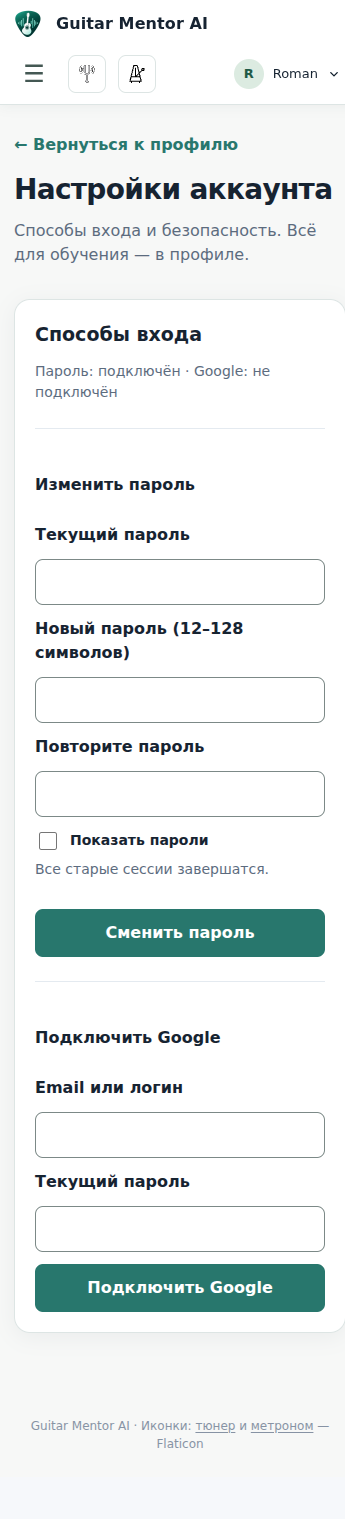
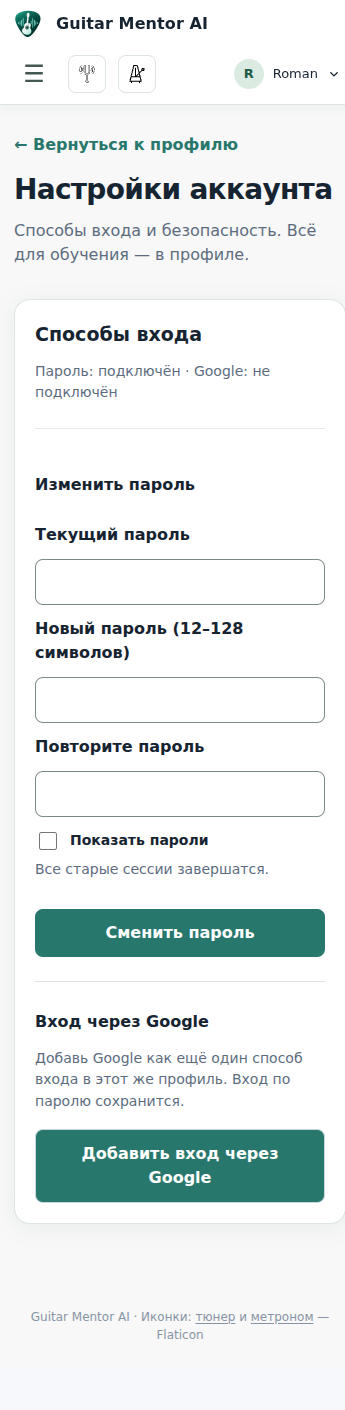
fix(ux): group profile data and clarify Google account linking (#229)

diff --git a/frontend/src/core/auth/PasswordSettings.vue b/frontend/src/core/auth/PasswordSettings.vue
@@ -1,5 +1,5 @@
 <script setup lang="ts">
-import { onBeforeUnmount, onMounted, ref } from 'vue';
+import { nextTick, onBeforeUnmount, onMounted, ref } from 'vue';
 import { useI18n } from 'vue-i18n';
 import { takeAccountLinkToken } from './account-link';
 import { auth, refreshActor } from './auth';
@@ -11,11 +11,15 @@ let active = true;
 let generation = 0;
 const accountId = auth.actor?.accountId;
 const isCurrent = () => active && auth.actor?.accountId === accountId;
-onBeforeUnmount(() => { active = false; ++generation; currentPassword.value = ''; newPassword.value = ''; confirm.value = ''; token.value = ''; });
+onBeforeUnmount(() => { active = false; ++generation; currentPassword.value = ''; newPassword.value = ''; confirm.value = ''; googlePassword.value = ''; identifier.value = ''; token.value = ''; });
 const passwordEnabled = ref(false);
 const googleEnabled = ref(false);
 const googleAvailable = ref(false);
 const identifier = ref('');
+const googlePassword = ref('');
+const googleLinkOpen = ref(false);
+const googleIdentifierInput = ref<HTMLInputElement | null>(null);
+const googleLinkButton = ref<HTMLButtonElement | null>(null);
 const email = ref('');
 const login = ref('');
 const currentPassword = ref('');
@@ -99,9 +103,18 @@ async function verifyLink(): Promise<void> {
     token.value = ''; notice.value = label('Пароль добавлен.', 'Password sign-in enabled.');
   }
 }
+function openGoogleLink(): void {
+  identifier.value = ''; googlePassword.value = ''; error.value = ''; notice.value = ''; googleLinkOpen.value = true;
+  void nextTick(() => googleIdentifierInput.value?.focus?.());
+}
+function cancelGoogleLink(): void {
+  identifier.value = ''; googlePassword.value = ''; googleLinkOpen.value = false;
+  void nextTick(() => googleLinkButton.value?.focus?.());
+}
 async function linkGoogle(): Promise<void> {
-  if (await submit('link/google/start',{identifier:identifier.value,password:currentPassword.value})) {
-    currentPassword.value = '';
+  if (!googleLinkOpen.value || !identifier.value.trim() || !googlePassword.value) return;
+  if (await submit('link/google/start',{identifier:identifier.value,password:googlePassword.value})) {
+    googlePassword.value = '';
     window.location.assign('/oauth2/authorization/guitar-mentor');
   }
 }
@@ -117,11 +130,11 @@ async function linkGoogle(): Promise<void> {
     <form v-if="methodsKnown && passwordEnabled" class="auth-form" @submit.prevent="change">
       <h3>{{ label('Изменить пароль', 'Change password') }}</h3>
       <label for="current-password">{{ label('Текущий пароль', 'Current password') }}</label>
-      <input id="current-password" v-model="currentPassword" :type="show ? 'text' : 'password'" autocomplete="current-password" required />
+      <input id="current-password" name="password-change-current" v-model="currentPassword" :type="show ? 'text' : 'password'" autocomplete="section-password-change current-password" required />
       <label for="new-account-password">{{ label('Новый пароль (12–128 символов)', 'New password (12–128 characters)') }}</label>
-      <input id="new-account-password" v-model="newPassword" :type="show ? 'text' : 'password'" autocomplete="new-password" minlength="12" maxlength="128" required />
+      <input id="new-account-password" v-model="newPassword" :type="show ? 'text' : 'password'" autocomplete="section-password-change new-password" minlength="12" maxlength="128" required />
       <label for="confirm-account-password">{{ label('Повторите пароль', 'Confirm password') }}</label>
-      <input id="confirm-account-password" v-model="confirm" :type="show ? 'text' : 'password'" autocomplete="new-password" required />
+      <input id="confirm-account-password" v-model="confirm" :type="show ? 'text' : 'password'" autocomplete="section-password-change new-password" required />
       <label class="auth-checkbox"><input v-model="show" type="checkbox" />{{ label('Показать пароли', 'Show passwords') }}</label>
       <p class="hint">{{ label('Все старые сессии завершатся.', 'All older sessions will expire.') }}</p>
       <button type="submit" class="auth-primary" :disabled="busy" :aria-busy="busy">{{ label('Сменить пароль', 'Change password') }}</button>
@@ -145,14 +158,20 @@ async function linkGoogle(): Promise<void> {
       <input v-if="!tokenFromLink" id="link-token" v-model.trim="token" type="password" autocomplete="off" maxlength="64" required />
       <button type="submit" class="auth-primary" :disabled="busy">{{ label('Подключить пароль', 'Enable password') }}</button>
     </form>
-    <form v-if="methodsKnown && passwordEnabled && !googleEnabled && googleAvailable" class="auth-form" @submit.prevent="linkGoogle">
-      <h3>{{ label('Подключить Google', 'Connect Google') }}</h3>
-      <label for="google-link-identifier">{{ label('Email или логин', 'Email or username') }}</label>
-      <input id="google-link-identifier" v-model.trim="identifier" autocomplete="username" required />
-      <label for="google-link-password">{{ label('Текущий пароль', 'Current password') }}</label>
-      <input id="google-link-password" v-model="currentPassword" type="password" autocomplete="current-password" required />
-      <button type="submit" class="auth-primary" :disabled="busy">{{ label('Подключить Google', 'Connect Google') }}</button>
-    </form>
+    <section v-if="methodsKnown && passwordEnabled && !googleEnabled && googleAvailable" class="google-provider" aria-labelledby="google-provider-title">
+      <h3 id="google-provider-title">{{ label('Вход через Google', 'Sign in with Google') }}</h3>
+      <p class="hint">{{ label('Добавь Google как ещё один способ входа в этот же профиль. Вход по паролю сохранится.', 'Add Google as another way to sign in to this profile. Password sign-in will remain available.') }}</p>
+      <button ref="googleLinkButton" v-if="!googleLinkOpen" type="button" class="action-button secondary-button" :disabled="busy" aria-expanded="false" aria-controls="google-link-form" @click="openGoogleLink">{{ label('Добавить вход через Google', 'Add Google sign-in') }}</button>
+      <form v-else id="google-link-form" class="auth-form" @submit.prevent="linkGoogle">
+        <p class="hint" id="google-link-help">{{ label('Сначала подтверди свою учётную запись Guitar Mentor AI. Затем откроется страница Google для выбора аккаунта. Пароль от почты здесь вводить не нужно.', 'First confirm your Guitar Mentor AI account. Then Google will open so you can choose an account. Do not enter your email password here.') }}</p>
+        <label for="google-link-identifier">{{ label('Email или логин в Guitar Mentor AI', 'Guitar Mentor AI email or username') }}</label>
+        <input ref="googleIdentifierInput" id="google-link-identifier" name="google-link-username" v-model.trim="identifier" autocomplete="section-google-link username" aria-describedby="google-link-help" required />
+        <label for="google-link-password">{{ label('Пароль Guitar Mentor AI', 'Guitar Mentor AI password') }}</label>
+        <input id="google-link-password" name="google-link-password" v-model="googlePassword" type="password" autocomplete="section-google-link current-password" aria-describedby="google-link-help" required />
+        <button type="submit" class="auth-primary" :disabled="busy" :aria-busy="busy">{{ label('Продолжить в Google', 'Continue to Google') }}</button>
+        <button type="button" class="text-button" :disabled="busy" @click="cancelGoogleLink">{{ label('Отмена', 'Cancel') }}</button>
+      </form>
+    </section>
     <p v-if="notice" class="success" role="status">{{ notice }}</p>
     <p v-if="error" class="auth-error" role="alert">{{ error }}</p>
     <button v-if="!methodsKnown" type="button" class="action-button secondary-button" @click="loadMethods">{{ label('Повторить', 'Retry') }}</button>

diff --git a/frontend/src/App.vue b/frontend/src/App.vue
@@ -129,8 +129,6 @@ onBeforeUnmount(() => { unsubscribeMetronome?.(); closeMetronome(); });
           <span aria-hidden="true">☰</span>
         </button>
         <nav v-if="auth.actor || localPrototype" :id="menuId" class="header-navigation" :class="{ 'menu-open': menuOpen }" :aria-label="locale === 'ru' ? 'Основная навигация' : 'Main navigation'">
-          <RouterLink to="/profile" @click="closeMenu()">{{ t('app.profile') }}</RouterLink>
-          <RouterLink to="/onboarding" @click="closeMenu()">{{ t('app.onboarding') }}</RouterLink>
           <RouterLink to="/diagnostics" @click="closeMenu()">{{ locale === 'ru' ? 'Занятие' : 'Practice' }}</RouterLink>
           <RouterLink to="/library" @click="closeMenu()">{{ t('library.nav') }}</RouterLink>
           <RouterLink v-if="auth.actor" to="/music-archive" @click="closeMenu()">{{ t('musicArchive.nav') }}</RouterLink>
@@ -184,17 +182,17 @@ onBeforeUnmount(() => { unsubscribeMetronome?.(); closeMetronome(); });
             <svg viewBox="0 0 24 24" width="14" height="14" fill="none" stroke="currentColor" stroke-width="2" aria-hidden="true"><path d="m6 9 6 6 6-6"/></svg>
           </button>
           <div v-if="accountMenuOpen" id="gm-account-menu" class="header-account-popover">
-            <RouterLink to="/profile" @click="closeAccountMenu()">{{ t('app.profile') }}</RouterLink>
-            <RouterLink to="/settings/account" @click="closeAccountMenu()">{{ t('profileUx.account') }}</RouterLink>
+            <RouterLink to="/profile" @click="closeAccountMenu()"><svg class="account-menu-icon" viewBox="0 0 24 24" width="18" height="18" fill="none" stroke="currentColor" stroke-width="1.7" stroke-linecap="round" stroke-linejoin="round" aria-hidden="true" focusable="false"><path d="M20 21v-2a6 6 0 0 0-6-6h-4a6 6 0 0 0-6 6v2M16 5a4 4 0 1 1-8 0 4 4 0 0 1 8 0Z" /></svg><span>{{ t('app.profile') }}</span></RouterLink>
+            <RouterLink to="/settings/account" @click="closeAccountMenu()"><svg class="account-menu-icon" viewBox="0 0 24 24" width="18" height="18" fill="none" stroke="currentColor" stroke-width="1.7" stroke-linecap="round" stroke-linejoin="round" aria-hidden="true" focusable="false"><path d="M9.2 3.4 10 1h4l.8 2.4 2 .9L19 3.8l2 3.4-1.6 1.8.2 2.2 1.8 1.8-2 3.4-2.4-.5-1.8 1.3-.8 2.4h-4l-.8-2.4-2-1L5.2 17l-2-3.5 1.6-1.8-.2-2.2L2.8 7.7l2-3.4 2.4.5 2-.9ZM15.5 10.5a3.5 3.5 0 1 1-7 0 3.5 3.5 0 0 1 7 0Z" /></svg><span>{{ t('profileUx.account') }}</span></RouterLink>
             <button v-if="learnerStore.error" type="button" @click="retryHeaderProfile">{{ locale === 'ru' ? 'Повторить загрузку профиля' : 'Retry profile loading' }}</button>
             <label class="language-picker header-account-locale">
-              <span>{{ t('app.language') }}</span>
+              <span class="account-menu-label"><svg class="account-menu-icon" viewBox="0 0 24 24" width="18" height="18" fill="none" stroke="currentColor" stroke-width="1.7" stroke-linecap="round" stroke-linejoin="round" aria-hidden="true" focusable="false"><path d="M21 12a9 9 0 1 1-18 0 9 9 0 0 1 18 0ZM3 12h18M12 3c3 3 3 15 0 18-3-3-3-15 0-18Z" /></svg><span>{{ t('app.language') }}</span></span>
               <select v-model="locale" :aria-label="t('app.language')">
                 <option value="ru">RU</option>
                 <option value="en">EN</option>
               </select>
             </label>
-            <button v-if="auth.actor" type="button" class="header-signout-button" :disabled="logoutPending" :aria-busy="logoutPending" @click="signOut">{{ logoutPending ? t('auth.loading') : t('auth.signOut') }}</button>
+            <button v-if="auth.actor" type="button" class="header-signout-button" :disabled="logoutPending" :aria-busy="logoutPending" @click="signOut"><svg class="account-menu-icon" viewBox="0 0 24 24" width="18" height="18" fill="none" stroke="currentColor" stroke-width="1.7" stroke-linecap="round" stroke-linejoin="round" aria-hidden="true" focusable="false"><path d="M9 3H5a2 2 0 0 0-2 2v14a2 2 0 0 0 2 2h4m7-16 5 7-5 7M8 12h13" /></svg><span>{{ logoutPending ? t('auth.loading') : t('auth.signOut') }}</span></button>
             <span v-if="logoutError" class="header-action-error" role="alert">{{ locale === 'ru' ? 'Не удалось выйти. Повторите попытку.' : 'Sign out failed. Please retry.' }}</span>
           </div>
         </div>

diff --git a/frontend/src/assets/light-minimal.css b/frontend/src/assets/light-minimal.css
@@ -71,7 +71,7 @@
 .app-shell[data-ui="light-minimal"] :is(.profile-page,.main-content) {min-width:0}
 .app-shell[data-ui="light-minimal"] {overflow-wrap:break-word}
 .app-shell[data-ui="light-minimal"] :is(.main-content,.profile-page) {scroll-margin-top:150px}
-@media(max-width:1480px) {
+@media(max-width:1320px) {
   .app-shell[data-ui="light-minimal"] .site-header {flex-wrap:wrap;position:sticky}
   .app-shell[data-ui="light-minimal"] .header-actions {width:100%;justify-content:flex-start;flex-wrap:wrap}
   .app-shell[data-ui="light-minimal"] .header-menu-button {display:inline-grid;order:0}
@@ -135,7 +135,7 @@
 }
 .app-shell[data-ui="light-minimal"] .header-account-popover {
   position:absolute;right:0;top:calc(100% + 9px);z-index:300;
-  width:215px;max-width:calc(100vw - 24px);
+  width:248px;max-width:calc(100vw - 24px);
   padding:7px;border:1px solid var(--gm-border);border-radius:12px;
   background:#fff;box-shadow:0 12px 34px #16233120;
   display:flex;flex-direction:column;gap:3px;
@@ -153,10 +153,10 @@
   padding:4px 11px;font-size:13px;
 }
 .app-shell[data-ui="light-minimal"] .header-account-locale select {min-height:36px}
-@media(min-width:1481px) {
+@media(min-width:1321px) {
   .app-shell[data-ui="light-minimal"] .header-navigation {margin-right:auto}
 }
-@media(max-width:1480px) {
+@media(max-width:1320px) {
   .app-shell[data-ui="light-minimal"] .header-account {order:4;margin-left:auto;padding-left:10px}
   .app-shell[data-ui="light-minimal"] .header-tool-button {order:1}
   .app-shell[data-ui="light-minimal"] .header-navigation {order:10}
@@ -173,3 +173,10 @@
   display:block;width:18px;height:18px;object-fit:contain;flex-shrink:0;
 }
 .app-shell[data-ui="light-minimal"] .icon-credits a {text-decoration:underline;text-underline-offset:2px}
+
+/* Personal sections are grouped in the account menu; icons are decorative. */
+.app-shell[data-ui="light-minimal"] .header-account-popover > :is(a,button) { gap: 10px; }
+.app-shell[data-ui="light-minimal"] .account-menu-icon { flex-shrink: 0; }
+.app-shell[data-ui="light-minimal"] .account-menu-label { display: inline-flex; align-items: center; gap: 10px; }
+
+.app-shell[data-ui="light-minimal"] .header-account-popover > button { justify-content: flex-start; margin-left: 0; }

diff --git a/frontend/src/entities/learner/LearnerProfileView.vue b/frontend/src/entities/learner/LearnerProfileView.vue
@@ -84,9 +84,10 @@ async function save(): Promise<void> {
       <button v-if="store.error && !store.busy" type="button" class="action-button secondary-button" @click="loadProfile">{{ t('home.retry') }}</button>
       <section v-if="!editing && hasProfile" class="panel profile-overview">
         <div class="page-heading"><div><h2>{{ store.learner?.displayName }}</h2><p>{{ t('instruments.ACOUSTIC_GUITAR') }} · {{ t('instruments.FINGERSTYLE') }}</p></div>
-          <button type="button" class="action-button secondary-button" @click="editing = true; success = false">{{ t('profileUx.edit') }}</button></div>
+          <button type="button" class="action-button secondary-button" @click="editing = true; success = false">{{ t('profileUx.editPreferences') }}</button></div>
         <h3>{{ t('form.styles') }}</h3>
         <dl class="preference-summary"><div v-for="rating in ratingValues" :key="rating"><dt>{{ t('ratings.' + rating) }}</dt><dd>{{ styleCodes.filter(code => ratings[code] === rating).map(code => t('styles.' + code)).join(', ') || t('profileUx.none') }}</dd></div></dl>
+        <ProfileLearningSummary v-if="hasGuitar" :learner-id="store.learner!.id" />
         <p v-if="success" class="saved-confirmation" role="status">✓ {{ t('form.saved') }}</p>
         <RouterLink to="/" class="continue-link">{{ t('profileUx.backLearning') }} →</RouterLink>
       </section>
@@ -101,7 +102,6 @@ async function save(): Promise<void> {
           <div class="form-actions"><button type="submit" :disabled="!maySave">{{ store.busy ? t('form.saving') : t('form.update') }}</button><button v-if="hasGuitar" type="button" class="text-button" @click="cancelEdit">{{ t('profileUx.cancel') }}</button></div>
         </fieldset>
       </form>
-      <ProfileLearningSummary v-if="hasGuitar" :learner-id="store.learner!.id" />
     </template>
   </section>
 </template>

diff --git a/frontend/src/entities/learner/ProfileLearningSummary.vue b/frontend/src/entities/learner/ProfileLearningSummary.vue
@@ -30,11 +30,16 @@ async function load(): Promise<void> {
 watch(() => props.learnerId, () => { void load(); }, { immediate: true });
 </script>
 <template>
-  <section class="panel learning-summary">
-    <div class="page-heading"><h2>{{ t('profileUx.goals') }}</h2><RouterLink to="/onboarding" class="continue-link">{{ t(background ? 'profileUx.editAnswers' : 'profileUx.fillAnswers') }} →</RouterLink></div>
+  <section class="learning-summary" aria-labelledby="profile-learning-title">
+    <div class="page-heading"><h2 id="profile-learning-title">{{ t('profileUx.goals') }}</h2><RouterLink to="/onboarding" class="continue-link">{{ t(background ? 'profileUx.editExperience' : 'profileUx.fillExperience') }} →</RouterLink></div>
     <p v-if="loading" role="status">{{ t('onboarding.loading') }}</p>
     <template v-else>
       <div v-if="error" role="alert"><p>{{ t(apiFailureKey(error)) }}</p><button type="button" class="text-button" @click="load">{{ t('home.retry') }}</button></div>
+      <dl v-if="background" class="learner-facts">
+        <div><dt>{{ t('profileUx.experienceLabel') }}</dt><dd>{{ t('onboarding.levels.' + background.experienceLevel) }} · {{ t('profileUx.yearsValue', { years: background.yearsPlaying }) }}</dd></div>
+        <div><dt>{{ t('profileUx.practiceLabel') }}</dt><dd>{{ t('profileUx.practiceValue', { minutes: background.practiceMinutes, sessions: background.sessionsPerWeek }) }}</dd></div>
+      </dl>
+      <h3>{{ t('profileUx.learningGoals') }}</h3>
       <p v-if="background?.goals.length">{{ background.goals.map(code => t('onboarding.goals.' + code)).join(' · ') }}</p>
       <p v-else class="hint">{{ t('profileUx.noGoals') }}</p>
       <h2>{{ t('profileUx.skills') }}</h2>

diff --git a/frontend/src/core/home/HomeView.vue b/frontend/src/core/home/HomeView.vue
@@ -33,15 +33,14 @@ const homeDescription = computed(() => {
   return t('home.light.descriptions.' + summary.value.step);
 });
 const visibleSections = computed(() => sections.filter(section =>
-  section.key === 'library' || section.key === 'profile' || (section.key === 'onboarding' ? hasInstrument.value : hasInstrument.value && summary.value?.step !== 'profile'),
+  section.key === 'library' || section.key === 'profile' || (hasInstrument.value && summary.value?.step !== 'profile'),
 ));
 
 const recoveryMessage = computed(() => recoveryError.value ? t(apiFailureKey(recoveryError.value)) : '');
 const sections = [
   { key: 'profile', to: '/profile', number: '01', icon: 'M12 12a4 4 0 1 0 0-8 4 4 0 0 0 0 8ZM4 21v-2a6 6 0 0 1 6-6h4a6 6 0 0 1 6 6v2' },
-  { key: 'onboarding', to: '/onboarding', number: '02', icon: 'M8 4H5a2 2 0 0 0-2 2v14a2 2 0 0 0 2 2h14a2 2 0 0 0 2-2V6a2 2 0 0 0-2-2h-3M8 2h8v5H8ZM7 12h10M7 17h7' },
-  { key: 'diagnostics', to: '/diagnostics', number: '03', icon: 'M4 14v-4M8 19V5M12 22V2M16 17V7M20 14v-4' },
-  { key: 'library', to: '/library', number: '04', icon: 'M4 3h16v18H4zM8 7h8M8 12h8M8 17h5' },
+  { key: 'diagnostics', to: '/diagnostics', number: '02', icon: 'M4 14v-4M8 19V5M12 22V2M16 17V7M20 14v-4' },
+  { key: 'library', to: '/library', number: '03', icon: 'M4 3h16v18H4zM8 7h8M8 12h8M8 17h5' },
 ] as const;
 
 async function restoreProfile(): Promise<void> {

diff --git a/frontend/src/entities/onboarding/OnboardingView.vue b/frontend/src/entities/onboarding/OnboardingView.vue
@@ -233,7 +233,8 @@ async function save(complete = true): Promise<void> {
 
 <template>
   <section class="profile-page learner-experience onboarding-page">
-    <div class="intro"><span class="eyebrow">{{ t('profileUx.myMusic') }}</span><h1>{{ t('onboarding.title') }}</h1><p>{{ t('onboarding.subtitle') }}</p></div>
+    <nav class="profile-breadcrumb" :aria-label="t('profileUx.breadcrumb')"><RouterLink to="/profile">{{ t('profileUx.title') }}</RouterLink><span aria-hidden="true">/</span><span aria-current="page">{{ t('profileUx.goals') }}</span></nav>
+    <div class="intro"><h1>{{ t('onboarding.title') }}</h1><p>{{ t('onboarding.subtitle') }}</p></div>
     <div v-if="loading" class="panel" role="status">{{ t('onboarding.loading') }}</div>
     <div v-else-if="error && !learnerStore.learner" class="panel" role="alert"><p>{{ errorMessage }}</p><button type="button" class="action-button" @click="loadBackground">{{ t('home.retry') }}</button></div>
     <div v-else-if="!learnerStore.learner" class="panel"><p>{{ t('onboarding.needProfile') }}</p><RouterLink to="/profile">{{ t('app.profile') }}</RouterLink></div>

diff --git a/frontend/src/assets/learner-experience.css b/frontend/src/assets/learner-experience.css
@@ -55,3 +55,14 @@
 .app-shell .learner-experience .wizard-actions .secondary-button:hover:not(:disabled) {
   background: #dfece6; color: #205f57;
 }
+
+.learner-experience .learning-summary { margin: 28px 0; padding-top: 28px; border-top: 1px solid #dde5e4; }
+.learner-experience .learning-summary .page-heading { align-items: baseline; }
+.learner-experience .learner-facts { display: grid; grid-template-columns: repeat(2,minmax(0,1fr)); gap: 16px; margin: 8px 0 20px; }
+.learner-experience .learner-facts dt { margin-bottom: 6px; }
+.learner-experience .profile-breadcrumb { display: flex; gap: 10px; flex-wrap: wrap; color: #53636d; font-size: 14px; margin-bottom: 20px; }
+.learner-experience .profile-breadcrumb a { color: #205f57; text-underline-offset: 3px; }
+.learner-experience .google-provider { margin-top: 24px; border-top: 1px solid #dde5e4; padding-top: 4px; }
+.learner-experience .google-provider .auth-form { margin-top: 16px; }
+.learner-experience .google-provider .hint { margin: 8px 0 16px; }
+@media(max-width:600px) { .learner-experience .learner-facts { grid-template-columns: minmax(0,1fr); } }

diff --git a/docs/testing/issue-229-profile-onboarding-ux.md b/docs/testing/issue-229-profile-onboarding-ux.md
@@ -5,8 +5,8 @@
 
 ## Реализованное поведение
 
-- `/profile`: обзор, явное редактирование предпочтений, три варианта отношения к каждому стилю, заметное подтверждение. Имя берётся из общего learner store; существующий API изменения имени не поддерживает, поле остаётся только для чтения у сохранённого ученика.
-- `/settings/account`: существующая смена пароля и подключение способов входа вынесены из профиля. Способы входа показываются только после успешного валидного ответа API. Ошибка чтения предлагает retry и не открывает формы на основании предположений.
+- `/profile`: единая карточка предпочтений, опыта, ритма занятий, целей и навыков; явное редактирование каждой части, три варианта отношения к каждому стилю, заметное подтверждение. Имя берётся из общего learner store; существующий API изменения имени не поддерживает, поле остаётся только для чтения у сохранённого ученика.
+- `/settings/account`: существующая смена пароля и подключение способов входа вынесены из профиля. Способы входа показываются только после успешного валидного ответа API. Подключение Google раскрывается только по кнопке, поясняет подтверждение текущего аккаунта Guitar Mentor AI и последующий переход к Google; пароль подтверждения изолирован от формы смены пароля. Ошибка чтения предлагает retry и не открывает формы на основании предположений.
 - `/onboarding`: опыт → цели и интересы → ритм занятий. Произведения вводятся отдельными полями, до 10, без парсинга `|`; название обязательно, исполнитель необязателен. Лимиты сохранены из `OnboardingDtos`.
 - Черновик анкеты хранится в памяти, сохраняется при переходах назад. При выходе предлагается остаться или отказаться; refresh/tab close использует native beforeunload. Ошибки GET не открывают запись; read/draft conflict требует явной загрузки серверной версии. Ошибка PUT сохраняет ввод, двойное сохранение блокируется.
 - На шагах 1 и 2 есть отдельная кнопка «Сохранить изменения»: сохраняет всю текущую анкету без перехода и показывает подтверждение рядом с действием. «Продолжить» только переключает шаг. После финального сохранения на шаге 3 показывается завершение с одной основной CTA, рассчитанной существующим `resolveHomeSummary`. Retry следующего шага не повторяет PUT. Редактирование анкеты не создаёт новую диагностическую сессию и не меняет историю попыток.
@@ -40,13 +40,16 @@ Java/API/БД и миграции не менялись.
 | UX229-16 | RU/EN × 360/768/1440; labels, Tab, фокус, effective 200% reflow (384 px для 768 px) | PASS, горизонтального overflow нет; видимые основные действия, screenshots |
 | UX229-17 | Self-report, реальное OBSERVED/MEASURED, отсутствие наблюдений | PASS, источники разделены; неподтверждённый self-report не попадает в наблюдения |
 | UX229-A01 | Явное Save changes на шагах 1/2, двойной клик, failed GET/PUT, сохранение всего объекта | PASS, текущий шаг сохраняется; resolver вызывается только после финального сохранения; скрытые поля также валидируются |
+| UX229-A02 | Профиль и опыт/цели в одной карточке; вход к редактированию из профиля, breadcrumb анкеты; личные пункты убраны из главной навигации | PASS, реальный переход по ссылке из карточки; старый `/onboarding` совместим |
+| UX229-A03 | Google form скрыта до явного действия, отдельный password model; cancel/success очищают секрет, правильный endpoint и OAuth redirect | PASS, два новых mounted сценария и Chromium; реальный Google OAuth остаётся ручной проверкой |
+| UX229-A04 | Профиль/settings/язык/выход с декоративными иконками и текстом; меню desktop/mobile RU/EN | PASS, screenshots, доступные подписи сохранены |
 | UX229-18 | Регрессия нотного viewer, выбора следующего урока, истории попыток | PASS, три существующих Chromium suite |
 
 Результаты команд:
 
 | Команда | Результат |
 | --- | --- |
-| `npm test` | 195 PASS, 0 FAIL |
+| `npm test` | 197 PASS, 0 FAIL |
 | `npm run test:intake` | 55 PASS, 0 FAIL |
 | `npm run test:tuner` | 40 PASS, 0 FAIL |
 | `npm run build` | PASS |
@@ -117,3 +120,13 @@ npm run test:profile-browser
 Добавлены три сценарных теста; `npm test` — 195 PASS. Повторный Chromium suite проверил новые кнопки на двух шагах и RU/EN × 360/768/1440. Обе сборки прошли. Авторское ревью исправления: блокирующих замечаний нет. Пользовательская приёмка исправления ещё не получена.
 
 [Сохранение на шаге 1 и подтверждение](qa229/onboarding-save-step1-1440-ru.png).
+
+## Приёмочные исправления UX229-A02 / A03 / A04 — 26.10.2026
+
+- Опыт, ритм, цели и навыки теперь входят в единую карточку профиля. Ссылка на редактирование называется «Изменить опыт и цели»; на анкете явно показан путь «Мой профиль / Опыт и цели». Самостоятельные пункты профиля и анкеты удалены из главной навигации; профиль доступен через меню пользователя, первичная настройка — также через существующую Home CTA. Дублирующая карточка анкеты на Home убрана.
+- Пояснено, что Google добавляется как способ входа в тот же профиль. Форма подтверждения раскрывается по действию; подтверждается пароль Guitar Mentor AI, затем пользователь направляется на Google. В коде исправлена общая переменная пароля двух форм. Модели и autocomplete sections разделены, отмена и успешный redirect очищают секрет подтверждения. Пароль почтового сервиса не запрашивается.
+- В одобренном меню пользователя добавлены иконки профиля, настроек, языка и выхода. Они декоративные; текстовые подписи сохранены. Ширина меню и выравнивание адаптированы, проверено на 360 px.
+
+`npm test`: 197 PASS. Два новых mounted теста проверяют изоляцию паролей, request body, cancel, успешный redirect. Chromium suite проверяет единую карточку, переход из неё к анкете, отсутствие дубликатов в header, иконки, раскрытие Google и RU/EN × 360/768/1440. Обе сборки проходят. Автоматические browser API по-прежнему mocked; пользовательская приёмка новых исправлений не получена.
+
+Скриншоты: [меню desktop](qa229/account-menu-1440-ru.png), [меню mobile](qa229/account-menu-360-ru.png), [Google с пояснением desktop](qa229/account-google-link-1440-ru.png), [Google mobile](qa229/account-google-link-360-ru.png).

diff --git a/docs/reviews/issue-229-profile-ux-review.md b/docs/reviews/issue-229-profile-ux-review.md
@@ -7,3 +7,5 @@
 Это авторское техническое ревью; независимое одобрение PR не имитировалось.
 
 Приёмочный дефект UX229-A01 исправлен в том же PR: явное сохранение на шагах 1/2 без перехода, валидация полного API-объекта, сброс устаревшего success при изменении произведений. Добавлены сценарные проверки, повторно просмотрены desktop/mobile скриншоты; `npm test` — 195 PASS. Пользовательская приёмка исправления остаётся открытой.
+
+UX229-A02/A03/A04: просмотрены единая карточка и навигация, декоративные иконки/подписи меню, отдельные модели currentPassword и googlePassword, request body подтверждения, очистка при cancel/redirect/unmount и сохранение backend reauth endpoint. Найденное совместное использование пароля исправлено. Добавлены два mounted теста, расширен Chromium suite; основной набор — 197 PASS. Самостоятельное ревью не заменяет приёмку владельца.
